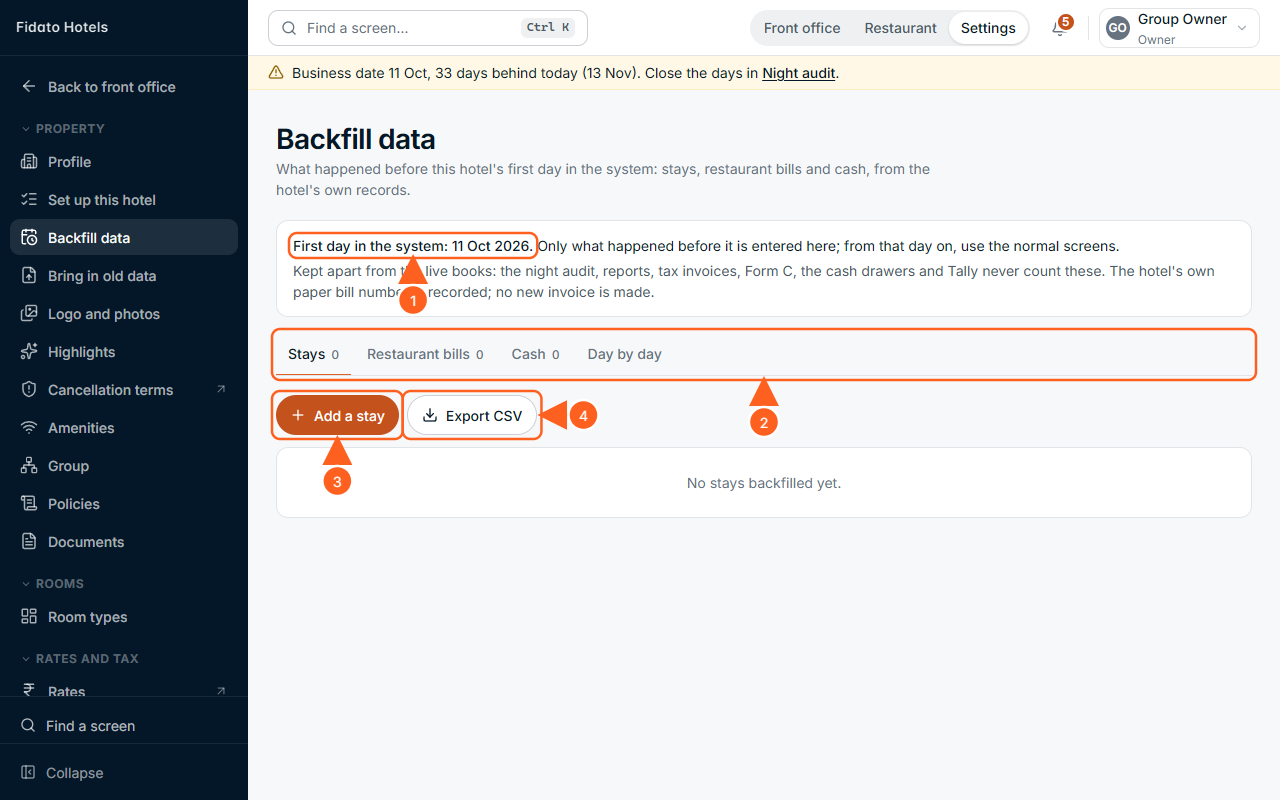
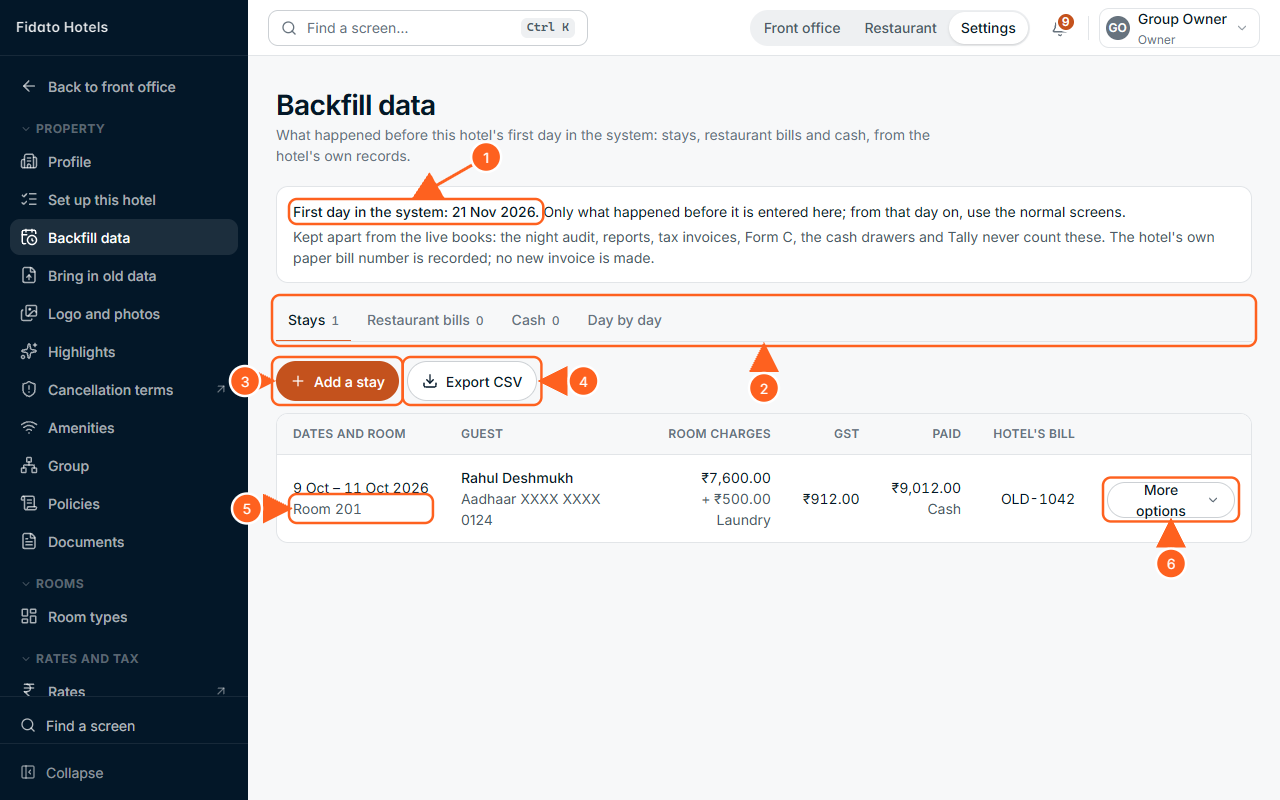
Book A17: Backfill data pictures show a stay, More options and the Total line; manual changelog and build for A8, A9, A11, A17 (D27-399)

diff --git a/docs/manual/manual.html b/docs/manual/manual.html
@@ -5208,9 +5208,9 @@ figure.shot.phone img { max-width: 72mm; }
   </ul>
   <p><span class="ui">Day</span> at the top shows another day's bookings; <span class="ui">Back to today</span> returns. A hotel guest's page keeps saying <b>Confirmed</b> for a table that is arrived, seated or a no-show.</p>
   <figure class="shot" id="fig-A8-51">
-    <img src="img/A8-51.png" alt="Table bookings for today: Rohan Mehta not staying, Seated at table N3 with bill 20261106-1 open on Tables; Meera Iyer not staying, Confirmed at 21:00 in A/C, with Seat, Arrived, No-show and Cancel booking">
+    <img src="img/A8-51.png" alt="Table bookings for today, with the PDF and Excel buttons above the Day box: Meera Iyer, not staying, Confirmed at 21:00 in A/C, with Seat, Arrived, No-show and Cancel booking">
     <figcaption><b>Figure A8-51.</b> The day's bookings, on the night.</figcaption>
-    <ol class="callouts"><li>The day shown</li><li>Somebody not staying, by name and phone</li><li>Seat: opens the table's bill</li><li>No-show, once the time has come</li></ol>
+    <ol class="callouts"><li>The day shown</li><li>Somebody not staying, by name and phone</li><li>Seat: opens the table's bill</li><li>No-show, once the time has come</li><li>PDF and Excel: the day's bookings, for those who download reports</li></ol>
   </figure>
 
   <div class="box watch">
@@ -5957,9 +5957,9 @@ figure.shot.phone img { max-width: 72mm; }
   <!-- A8.11 -->
   <h2 id="a8-11"><span class="n">A8.11</span>The menu and the add-ons list</h2>
   <figure class="shot" id="fig-A8-34">
-    <img src="img/A8-34.png" alt="The Menu screen: Dishes and Add-ons tabs, Import the menu, Add a part of the menu, a dish with variations and Sides">
+    <img src="img/A8-34.png" alt="The Menu screen: PDF and Excel buttons, Dishes, Add-ons and Profit per dish tabs, Import the menu, Add a part of the menu, a dish with variations and Sides">
     <figcaption><b>Figure A8-34.</b> The Menu.</figcaption>
-    <ol class="callouts"><li>Dishes</li><li>Add-ons: the numbered list</li><li>Import the menu from a file</li><li>Add a part of the menu (a section)</li><li>A dish's variations: sizes, quantities, options</li><li>Take a dish off for a while</li></ol>
+    <ol class="callouts"><li>Dishes</li><li>Add-ons: the numbered list</li><li>Import the menu from a file</li><li>Add a part of the menu (a section)</li><li>A dish's variations: sizes, quantities, options</li><li>Take a dish off for a while</li><li>PDF and Excel: the dishes, section by section</li></ol>
   </figure>
   <ul>
     <li><b>Prices are yours.</b> Nothing was shipped with the system. A price changed today applies to the next order; bills already printed keep the price they were sold at.</li>
@@ -6204,7 +6204,7 @@ figure.shot.phone img { max-width: 72mm; }
   <p><span class="ui">Shelf</span> is the Store as it stands: each item, what is on hand, and what it is worth. Under the heading, the number of items and what the shelf is worth in all.</p>
 
   <figure class="shot" id="fig-A9-06">
-    <img src="img/A9-06.png" alt="The Store: Shelf, Days, Reports, Import, Count a store, Add an item, the Store picker, ten tiles in two rows and the items under Kitchen">
+    <img src="img/A9-06.png" alt="The Store: PDF and Excel, Shelf, Days, Reports, Import, Count a store, Add an item, the Store picker, ten tiles in two rows and the items under Kitchen">
     <figcaption><b>Figure A9-06.</b> The Store.</figcaption>
     <ol class="callouts">
       <li>Shelf. Days is the other view (A9.10)</li>
@@ -6213,6 +6213,7 @@ figure.shot.phone img { max-width: 72mm; }
       <li>Add an item (A9.3)</li>
       <li>Store: All stores, or one store</li>
       <li>The tiles. Tap one to see only those items; tap it again to see all</li>
+      <li>PDF and Excel: the shelf as you see it</li>
     </ol>
   </figure>
   <p><span class="ui">PDF</span> and <span class="ui">Excel</span> save the shelf as you see it: the place and the tile chosen, with each item's cost and value. It is for those who hold the Store's export: the owner, an administrator, the general manager, the Inventory Manager or the accountant (A11.2, <span class="d">D27-383</span>). The Restaurant tab of Inventory saves the kitchen's day sheet the same way, for whoever opens it.</p>
@@ -6598,9 +6599,9 @@ figure.shot.phone img { max-width: 72mm; }
   </figure>
 
   <figure class="shot" id="fig-A9-22">
-    <img src="img/A9-22.png" alt="The Purchasing list: PO-5EL-2610-0001, Waiting for approval, What for, Main store, Items 1, Total -, asked by Test Inventory Manager">
+    <img src="img/A9-22.png" alt="The Purchasing list, with PDF and Excel beside Ask to buy: PO-5EL-2611-0002, Waiting for approval, What for, Main store, Items 1, Total -, asked by Test Inventory Manager; under it PO-5EL-2611-0001, Delivered">
     <figcaption><b>Figure A9-22.</b> The list of purchases.</figcaption>
-    <ol class="callouts"><li>Ask to buy</li><li>Its state</li><li>What it is for. Tap a row to open the order</li></ol>
+    <ol class="callouts"><li>Ask to buy</li><li>Its state</li><li>What it is for. Tap a row to open the order</li><li>PDF and Excel: the requests as you see them</li></ol>
   </figure>
 
   <figure class="shot" id="fig-A9-23">
@@ -7096,7 +7097,8 @@ figure.shot.phone img { max-width: 72mm; }
       <li>Refuse</li>
       <li>Where, and Status: the list's filters</li>
       <li>Waiting to leave the store</li>
-      <li>PDF and Excel of the list as filtered, and CSV of every line: for the owner, an Admin, the GM or the accountant</li>
+      <li>CSV: every line, for a spreadsheet</li>
+      <li>PDF and Excel: the list as filtered. These three buttons are for the owner, an Admin, the GM or the accountant</li>
     </ol>
   </figure>
 
@@ -11195,17 +11197,19 @@ figure.shot.phone img { max-width: 72mm; }
   </div>
 
   <h3>Backfill data: what happened before the first day</h3>
-  <p>A hotel that ran on paper before it came onto the system keeps the essentials of those days here: each stay, each restaurant bill and the cash in and out. <span class="ui">Backfill data</span> is in the Property group of the Settings menu, under <span class="ui">Set up this hotel</span>. The top of the page says the hotel's first day in the system, <span class="msg">“First day in the system: 1 Nov 2026.”</span> Only days before it are entered here; from that day on, the normal screens are used.</p>
+  <p>A hotel that ran on paper before it came onto the system keeps the essentials of those days here: each stay, each restaurant bill and the cash in and out. <span class="ui">Backfill data</span> is in the Property group of the Settings menu, under <span class="ui">Set up this hotel</span>. The top of the page says the hotel's first day in the system, <span class="msg">“First day in the system: 21 Nov 2026.”</span> Only days before it are entered here; from that day on, the normal screens are used.</p>
   <p>It is a register of its own. Nothing here is a booking, a bill, a payment or an invoice, so the night audit, the reports, the tax invoice numbers, Form C, the cash drawers and Tally never count it, and nothing on the live screens changes. The one exception is the guest: a backfilled guest is found or added in the guests' records, so the desk recognises them next time (<span class="msg">“Stayed with the group once”</span>), and Guest 360 lists the stay as <span class="ui">Backfilled</span> (A10).</p>
 
   <figure class="shot" id="fig-A17-57">
     <img src="img/A17-57.png" alt="Backfill data: the first day, the four tabs Stays, Restaurant bills, Cash and Day by day, Add a stay and Export CSV, and the list of stays">
-    <figcaption><b>Figure A17-57.</b> Backfill data, the Stays tab. The demo has no backfilled stay, so the list says so; once a stay is added, each row has More options: Correct and Remove.</figcaption>
+    <figcaption><b>Figure A17-57.</b> Backfill data, the Stays tab, with one stay added: Rahul Deshmukh, 9 to 11 October, room 201, the hotel's own bill OLD-1042. The demo had none of its own, so this one was added on the Add a stay window.</figcaption>
     <ol class="callouts">
       <li>The hotel's first day in the system: only days before it are entered</li>
       <li>The four tabs</li>
       <li>Add a stay</li>
       <li>Export CSV: the tab as a spreadsheet</li>
+      <li>A stay: its dates and room, the guest and the ID (only its last four figures are shown), the room charges, GST, what was paid and how, and the hotel's own bill number</li>
+      <li>More options: Correct or Remove</li>
     </ol>
   </figure>
 
@@ -11260,7 +11264,7 @@ figure.shot.phone img { max-width: 72mm; }
   <div class="box watch">
     <h4>Watch out</h4>
     <ul>
-      <li><b>Refused, with the reason:</b> a day on or after the first day (<span class="msg">“Only days before the hotel's first day, 1 Nov 2026, are backfilled. From that day on, use the normal screens.”</span>); a stay still in on the first day; a date in the future; and a second stay in the same room on the same night, with the first one named (<span class="msg">“Room 101 is already backfilled for …”</span>).</li>
+      <li><b>Refused, with the reason:</b> a day on or after the first day (<span class="msg">“Only days before the hotel's first day, 21 Nov 2026, are backfilled. From that day on, use the normal screens.”</span>); a stay still in on the first day; a date in the future; and a second stay in the same room on the same night, with the first one named (<span class="msg">“Room 101 is already backfilled for …”</span>).</li>
       <li>Type the hotel's own bill number from the paper bill. The system makes no tax invoice for a past day, so its own invoice numbers stay in order.</li>
       <li>Nothing here is wiped by any button, and nothing about how a hotel starts changes.</li>
     </ul>
@@ -11268,9 +11272,11 @@ figure.shot.phone img { max-width: 72mm; }
 
   <figure class="shot" id="fig-A17-59">
     <img src="img/A17-59.png" alt="Day by day: one line a day with rooms sold, room charges, GST, restaurant sales, payments by method, cash in and out, and the Total line">
-    <figcaption><b>Figure A17-59.</b> Day by day, with its Export CSV. Nothing is backfilled on the demo, so it says so; once stays, bills or cash are added it has one line a day and a Total line.</figcaption>
+    <figcaption><b>Figure A17-59.</b> Day by day, with its Export CSV: one line a day, and a Total line. The one stay above makes two days: its first night, and its last, when its charges and payment count.</figcaption>
     <ol class="callouts">
       <li>Export CSV: the summary as a spreadsheet</li>
+      <li>One day: the stay's last night, 10 October, carries its room charges, GST, other charges and the cash paid</li>
+      <li>Total: every line added up. Rooms sold are 2, one for each night</li>
     </ol>
   </figure>
 

diff --git a/docs/manual/chapters/a17.html b/docs/manual/chapters/a17.html
@@ -195,17 +195,19 @@
   </div>
 
   <h3>Backfill data: what happened before the first day</h3>
-  <p>A hotel that ran on paper before it came onto the system keeps the essentials of those days here: each stay, each restaurant bill and the cash in and out. <span class="ui">Backfill data</span> is in the Property group of the Settings menu, under <span class="ui">Set up this hotel</span>. The top of the page says the hotel's first day in the system, <span class="msg">“First day in the system: 1 Nov 2026.”</span> Only days before it are entered here; from that day on, the normal screens are used.</p>
+  <p>A hotel that ran on paper before it came onto the system keeps the essentials of those days here: each stay, each restaurant bill and the cash in and out. <span class="ui">Backfill data</span> is in the Property group of the Settings menu, under <span class="ui">Set up this hotel</span>. The top of the page says the hotel's first day in the system, <span class="msg">“First day in the system: 21 Nov 2026.”</span> Only days before it are entered here; from that day on, the normal screens are used.</p>
   <p>It is a register of its own. Nothing here is a booking, a bill, a payment or an invoice, so the night audit, the reports, the tax invoice numbers, Form C, the cash drawers and Tally never count it, and nothing on the live screens changes. The one exception is the guest: a backfilled guest is found or added in the guests' records, so the desk recognises them next time (<span class="msg">“Stayed with the group once”</span>), and Guest 360 lists the stay as <span class="ui">Backfilled</span> (A10).</p>
 
   <figure class="shot" id="fig-A17-57">
     <img src="img/A17-57.png" alt="Backfill data: the first day, the four tabs Stays, Restaurant bills, Cash and Day by day, Add a stay and Export CSV, and the list of stays">
-    <figcaption><b>Figure A17-57.</b> Backfill data, the Stays tab. The demo has no backfilled stay, so the list says so; once a stay is added, each row has More options: Correct and Remove.</figcaption>
+    <figcaption><b>Figure A17-57.</b> Backfill data, the Stays tab, with one stay added: Rahul Deshmukh, 9 to 11 October, room 201, the hotel's own bill OLD-1042. The demo had none of its own, so this one was added on the Add a stay window.</figcaption>
     <ol class="callouts">
       <li>The hotel's first day in the system: only days before it are entered</li>
       <li>The four tabs</li>
       <li>Add a stay</li>
       <li>Export CSV: the tab as a spreadsheet</li>
+      <li>A stay: its dates and room, the guest and the ID (only its last four figures are shown), the room charges, GST, what was paid and how, and the hotel's own bill number</li>
+      <li>More options: Correct or Remove</li>
     </ol>
   </figure>
 
@@ -260,7 +262,7 @@
   <div class="box watch">
     <h4>Watch out</h4>
     <ul>
-      <li><b>Refused, with the reason:</b> a day on or after the first day (<span class="msg">“Only days before the hotel's first day, 1 Nov 2026, are backfilled. From that day on, use the normal screens.”</span>); a stay still in on the first day; a date in the future; and a second stay in the same room on the same night, with the first one named (<span class="msg">“Room 101 is already backfilled for …”</span>).</li>
+      <li><b>Refused, with the reason:</b> a day on or after the first day (<span class="msg">“Only days before the hotel's first day, 21 Nov 2026, are backfilled. From that day on, use the normal screens.”</span>); a stay still in on the first day; a date in the future; and a second stay in the same room on the same night, with the first one named (<span class="msg">“Room 101 is already backfilled for …”</span>).</li>
       <li>Type the hotel's own bill number from the paper bill. The system makes no tax invoice for a past day, so its own invoice numbers stay in order.</li>
       <li>Nothing here is wiped by any button, and nothing about how a hotel starts changes.</li>
     </ul>
@@ -268,9 +270,11 @@
 
   <figure class="shot" id="fig-A17-59">
     <img src="img/A17-59.png" alt="Day by day: one line a day with rooms sold, room charges, GST, restaurant sales, payments by method, cash in and out, and the Total line">
-    <figcaption><b>Figure A17-59.</b> Day by day, with its Export CSV. Nothing is backfilled on the demo, so it says so; once stays, bills or cash are added it has one line a day and a Total line.</figcaption>
+    <figcaption><b>Figure A17-59.</b> Day by day, with its Export CSV: one line a day, and a Total line. The one stay above makes two days: its first night, and its last, when its charges and payment count.</figcaption>
     <ol class="callouts">
       <li>Export CSV: the summary as a spreadsheet</li>
+      <li>One day: the stay's last night, 10 October, carries its room charges, GST, other charges and the cash paid</li>
+      <li>Total: every line added up. Rooms sold are 2, one for each night</li>
     </ol>
   </figure>
 

diff --git a/docs/manual/CHANGELOG.md b/docs/manual/CHANGELOG.md
@@ -2,6 +2,10 @@
 
 One line per chapter and picture set, in the order they were committed; the decision numbers are the owner's.
 
+- 21 Nov, A8 (D27-399): A8-34 (the Menu) retaken: the stale 'behind today' banner gone, arrow 7 on the new PDF and Excel buttons; A8-51 (Table bookings) retaken: arrow 3 moved off 'Cancel booking', arrow 5 on PDF and Excel; its alt text now describes the one booking Meera Iyer (the old text spoke of a second booking, Rohan Mehta, seated at N3, that the clean demo does not have).
+- 21 Nov, A9 (D27-399): A9-06 (Store, arrow 7), A9-22 (Purchasing, arrow 4) and A9-37 (Equipment, arrow 7) show PDF and Excel; A9-22 and A9-37 are taken as the GM, since the Inventory Manager does not hold Purchasing's or the register's export. The screens have separate PDF, Excel and CSV buttons and no Export menu. A9-37's arrow 6 is now CSV alone; PDF and Excel are arrow 7. A9-22 shows the second purchase (PO-5EL-2611-0002) waiting, with the delivered first one under it.
+- 21 Nov, A11 (D27-399): A11-41 and A11-42 retaken at 1440 x 1500 (a new tall size, 'walltall', in shoot.mjs) so the whole report shows, on two real NC bills (DH-005 Owner's guests, DH-006 Staff meal, given free on the Till) and card-paid bills; A11-41's arrow 4 moved below its heading.
+- 21 Nov, A17 (D27-399): A17-57 and A17-59 retaken with one backfilled stay added on Add a stay (Rahul Deshmukh, room 201, 9 to 11 October 2026, the hotel's bill OLD-1042); A17-57 has arrows 5 (the stay) and 6 (More options); A17-59 has arrows 2 (a day's line) and 3 (the Total line) and is 1700 wide so Cash out shows; the first day in the system is quoted as 21 Nov 2026 as the picture shows it (was 1 Nov 2026). shoot.mjs gained optional dx/dy to slide an arrow's number.
 - 16 Nov, A8 and A11 (the owner, 16 November): A8.4 says where a KOT is for (RESTAURANT · A/C), A8-44 retaken with it in the preview; A11.4 gains NC bills (A11-41) and Item sales (A11-42); A11-23 retaken with Bar stock's From and To; A11.9 says how a range of days reads; A11.2's table of which day each report is for, and A11.10, say so. A8-09 (the two printed slips) still shows the KOT before the line: it needs A8's printing run.
 - 13 Nov, A2 (D27-396): pictures retaken on the demo of 11 Oct (A2-01 to A2-41; A2-02 tall, so the dates show); A2-42 new: the host's account, the second Figure A2-31 renumbered; the rooming list uses the group the run makes (A2 Test Mehta wedding), the allotment (Demo Travels) and the waitlist are made-up demo data; the file's rows follow the group's own dates.
 - 13 Nov, A3 (D27-396): A3-02 and A3-12 taken (A3 Test Iyer, room 209), the two 'to be taken' boxes are pictures; A3-12 with Rooms ready from put to 20:00 for the picture and back to 14:00 (the clock was past 14:00).
